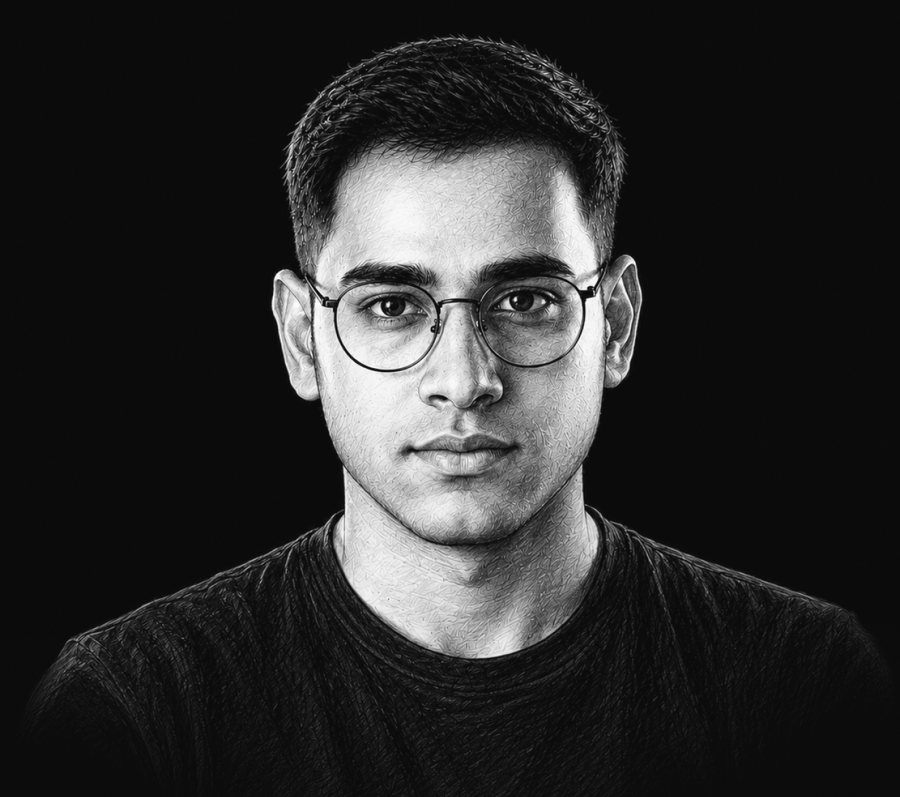
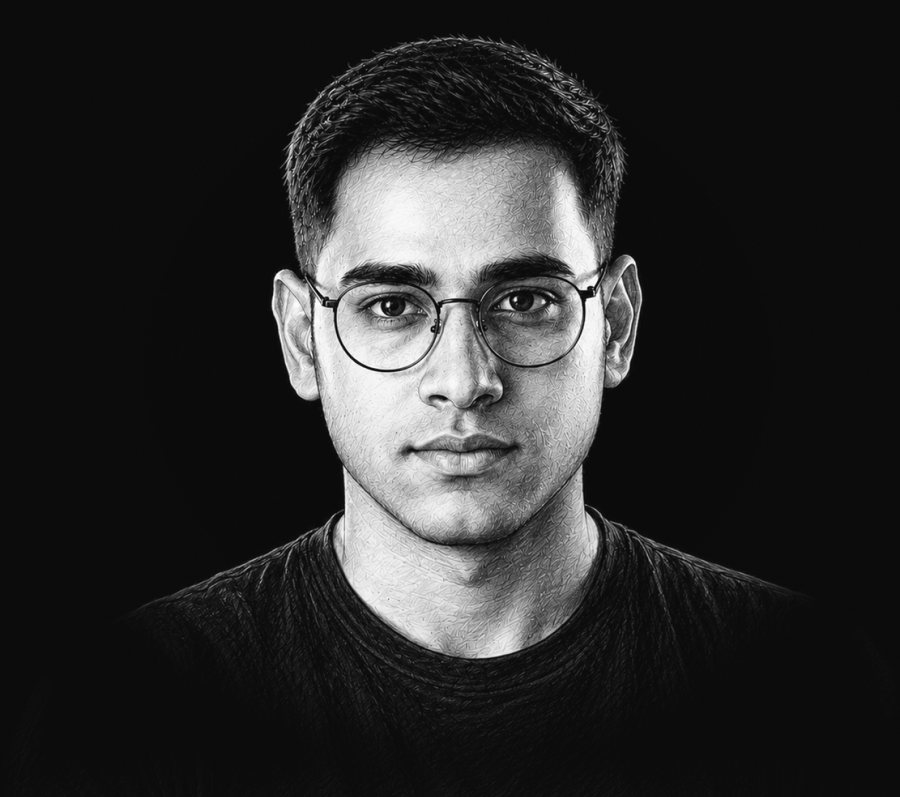
Age scrub: number and title on one line, left-aligned; newest 02 portrait

Changed region(s): [[0.0311, 0.7528, 0.1867, 0.8733], [0.84, 0.7227, 0.9333, 0.7829], [0.1867, 0.813, 0.2178, 0.8432]]

diff --git a/shared.css b/shared.css
@@ -673,10 +673,11 @@ body.bucketing .cursor-dot,body.bucketing .cursor-ring{opacity:0}
 .scrub-pin{position:sticky;top:0;height:100vh;display:flex;flex-direction:column;justify-content:center;padding:90px 36px 36px;max-width:1500px;margin:0 auto}
 .scrub-main{display:grid;grid-template-columns:.85fr 1.15fr;gap:clamp(32px,4vw,72px);align-items:center;flex:1;min-height:0}
 .scrub-info{position:relative;min-height:360px}
-.scrub-stage{position:absolute;top:50%;right:0;transform:translate(0,calc(-50% + 16px));opacity:0;transition:opacity .55s cubic-bezier(.22,1,.36,1),transform .55s cubic-bezier(.22,1,.36,1);max-width:38ch}
+.scrub-stage{position:absolute;top:50%;right:0;transform:translate(0,calc(-50% + 16px));opacity:0;transition:opacity .55s cubic-bezier(.22,1,.36,1),transform .55s cubic-bezier(.22,1,.36,1);max-width:44ch;display:flex;flex-wrap:wrap;align-items:baseline;column-gap:22px}
 .scrub-stage.on{opacity:1;transform:translate(0,-50%)}
-.scrub-stage .age-num{font-size:clamp(90px,10vw,150px)}
-.scrub-title{font-weight:600;font-size:clamp(26px,2.7vw,42px);letter-spacing:.12em;text-transform:uppercase;margin:-52px 0 22px 30px;color:#FFF;position:relative}
+.scrub-stage .age-num{font-size:clamp(52px,5.6vw,86px)}
+.scrub-title{font-weight:600;font-size:clamp(26px,2.7vw,42px);letter-spacing:.12em;text-transform:uppercase;margin:0;color:#FFF}
+.scrub-copy{flex-basis:100%;margin-top:16px}
 .scrub-copy{font-size:clamp(16px,1.5vw,21px);color:#9C9C9A;line-height:1.65}
 #ageCanvas{display:block;justify-self:center}
 .scrub-rail{position:relative;height:14px;margin:30px auto 0;width:min(560px,64%)}
